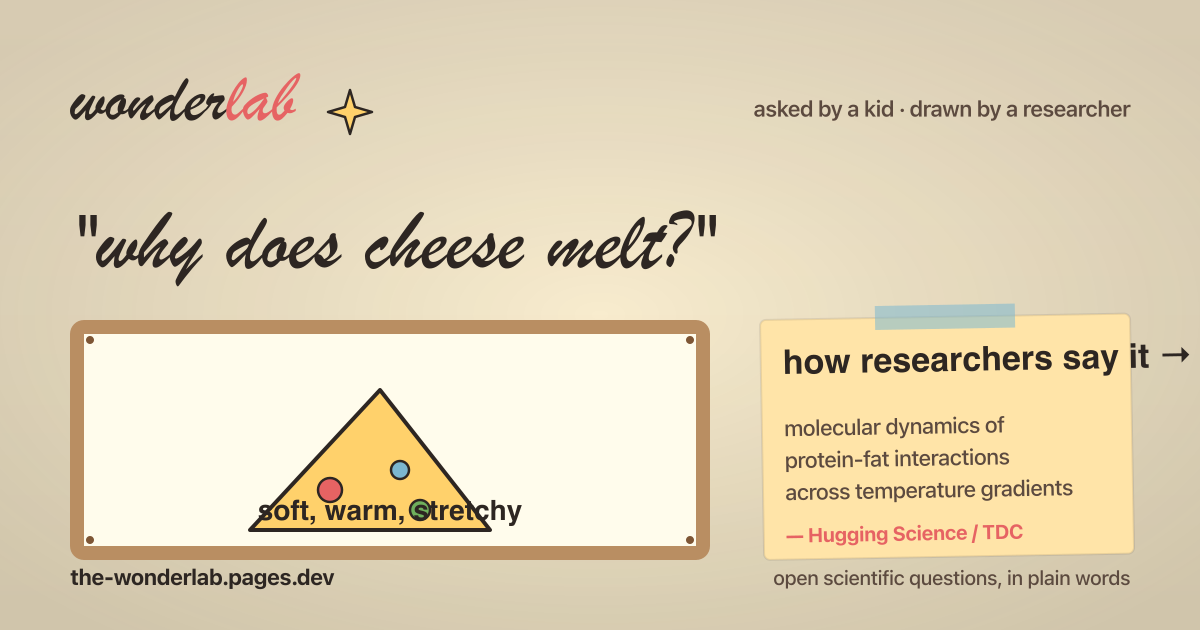
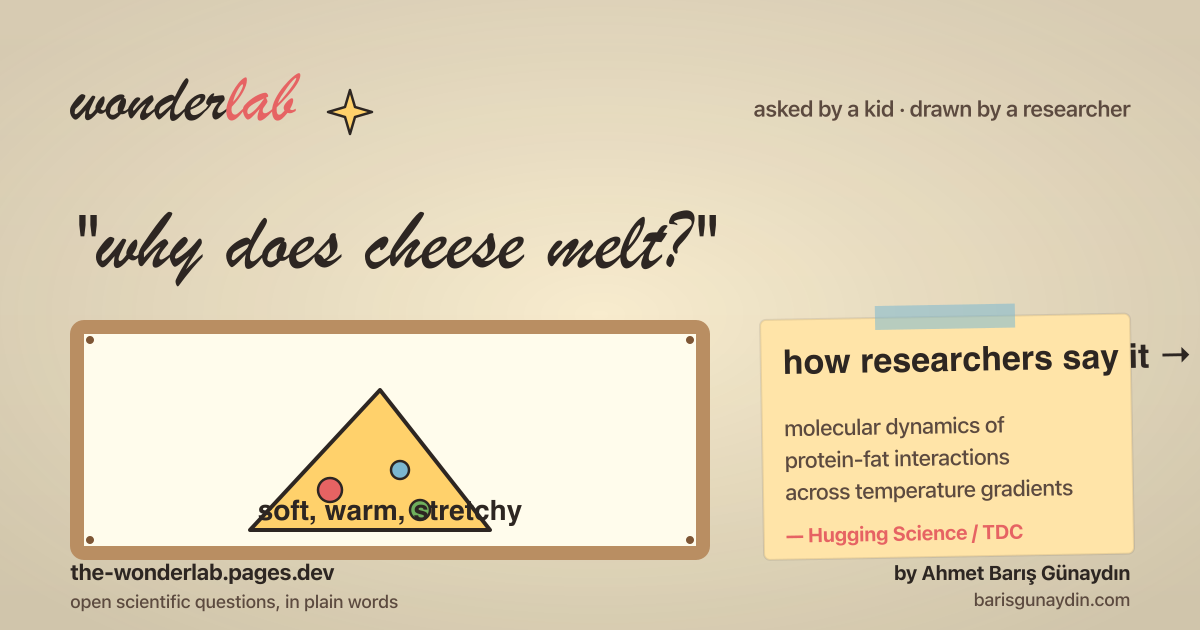
Move embed badge to top-left + add Baris credit everywhere
EMBED BADGE FIX
On mobile the "made with wonderlab ✦" badge sat at bottom-left
directly behind the chat-input row, overlapping the placeholder
text. Moved both the ::after badge and its invisible <a> click
target to top:0.6rem instead of bottom:0.6rem — the wordmark area
is hidden in embed mode anyway, so top-left was free real estate.
Same change applies on desktop (consistent placement).

CREDIT — "Ahmet Barış Günaydın · barisgunaydin.com"
Added to every place a stranger might look:

  • Public footer: new pink "by baris ↗" chip linking to the
    personal site, sandwiched between the source-link and the
    version pill.
  • Share card (PNG download): footer is now two stacked lines on
    the right — tagline on top, credit underneath. Left side
    keeps the wonderlab URL.
  • OG image (og.svg + regenerated og.png): same two-line
    treatment so anyone sharing the URL on Slack / X / LinkedIn
    sees the credit on the social card.
  • README: new "Made by" section right above the story, linking
    barisgunaydin.com + the github profile.

Changed region(s): [[0.0617, 0.8746, 0.3392, 0.9651], [0.6475, 0.8746, 0.9558, 0.9651]]

diff --git a/index.html b/index.html
@@ -2397,7 +2397,7 @@
   body.is-embed::after {
     content: "made with wonderlab ✦";
     position: fixed;
-    bottom: 0.6rem;
+    top: 0.6rem;
     left: 0.85rem;
     z-index: 4;
     background: rgba(255, 255, 255, 0.85);
@@ -2417,7 +2417,7 @@
   body.is-embed .embed-attrib {
     display: block;
     position: fixed;
-    bottom: 0.6rem;
+    top: 0.6rem;
     left: 0.85rem;
     z-index: 5;
     width: 11rem;
@@ -2551,6 +2551,8 @@
   a.public-footer__chip:hover { background: var(--sun-glow); transform: translate(-1px,-1px); box-shadow: 2px 2px 0 var(--ink); }
   .public-footer__chip--privacy { background: rgba(184, 223, 160, 0.85); }
   .public-footer__chip--meta    { background: rgba(255, 209, 107, 0.85); }
+  .public-footer__chip--by      { background: rgba(248, 165, 194, 0.85); }
+  .public-footer__chip--by:hover { background: var(--pink); }
   /* tighter on mobile — the chat-input owns the bottom row */
   @media (max-width: 699px) {
     .public-footer {
@@ -2911,6 +2913,9 @@
         <path d="M12 .3a12 12 0 0 0-3.8 23.4c.6.1.8-.3.8-.6v-2.2c-3.3.7-4-1.6-4-1.6-.5-1.4-1.3-1.7-1.3-1.7-1-.7.1-.7.1-.7 1.2.1 1.8 1.2 1.8 1.2 1 1.8 2.8 1.3 3.4 1 .1-.8.4-1.3.7-1.6-2.7-.3-5.5-1.3-5.5-6 0-1.3.5-2.4 1.2-3.2-.1-.3-.5-1.5.1-3.2 0 0 1-.3 3.3 1.2a11.5 11.5 0 0 1 6 0c2.3-1.5 3.3-1.2 3.3-1.2.6 1.7.2 2.9.1 3.2.8.8 1.2 1.9 1.2 3.2 0 4.6-2.8 5.7-5.5 6 .4.4.8 1.1.8 2.2v3.3c0 .3.2.7.8.6A12 12 0 0 0 12 .3"/>
       </svg>
       source
+    </a>
+    <a class="public-footer__chip public-footer__chip--by" href="https://barisgunaydin.com" target="_blank" rel="noopener" title="by Ahmet Barış Günaydın">
+      by baris ↗
     </a>
     <span class="public-footer__chip public-footer__chip--meta">v0.1 · alpha</span>
   </footer>

diff --git a/src/share-card.js b/src/share-card.js
@@ -175,15 +175,19 @@ export async function renderShareCard(spec, whiteboardCanvas) {
     y += stickyH + 24;
   }
 
-  // === FOOTER ===
-  const FY = H - 56;
+  // === FOOTER === — two stacked lines on the right so the credit line
+  // sits next to the URL without crowding either
+  const FY = H - 64;
   ctx.font = '700 22px "Nunito", sans-serif';
   ctx.fillStyle = C.ink;
-  ctx.fillText('the-wonderlab.pages.dev', PAD, FY);
-  ctx.font = '500 20px "Nunito", sans-serif';
+  ctx.fillText('the-wonderlab.pages.dev', PAD, FY + 14);
+  ctx.font = '500 18px "Nunito", sans-serif';
   ctx.fillStyle = C.inkSoft;
   ctx.textAlign = 'right';
-  ctx.fillText('open scientific questions, in plain words', W - PAD, FY + 2);
+  ctx.fillText('open scientific questions, in plain words', W - PAD, FY);
+  ctx.font = '700 18px "Nunito", sans-serif';
+  ctx.fillStyle = C.ink;
+  ctx.fillText('by Ahmet Barış Günaydın · barisgunaydin.com', W - PAD, FY + 26);
   ctx.textAlign = 'left';
 
   return c;

diff --git a/README.md b/README.md
@@ -141,6 +141,11 @@ up automatically. See `music/CREDITS.txt` for free-music sources.
 
 MIT — see [LICENSE](LICENSE).
 
+## Made by
+
+**Ahmet Barış Günaydın** — [barisgunaydin.com](https://barisgunaydin.com) ·
+[github.com/abgnydn](https://github.com/abgnydn)
+
 ## Story behind the project
 
 Hugging Face launched [Hugging Science](https://huggingface.co/blog/welcome-hugging-science).
